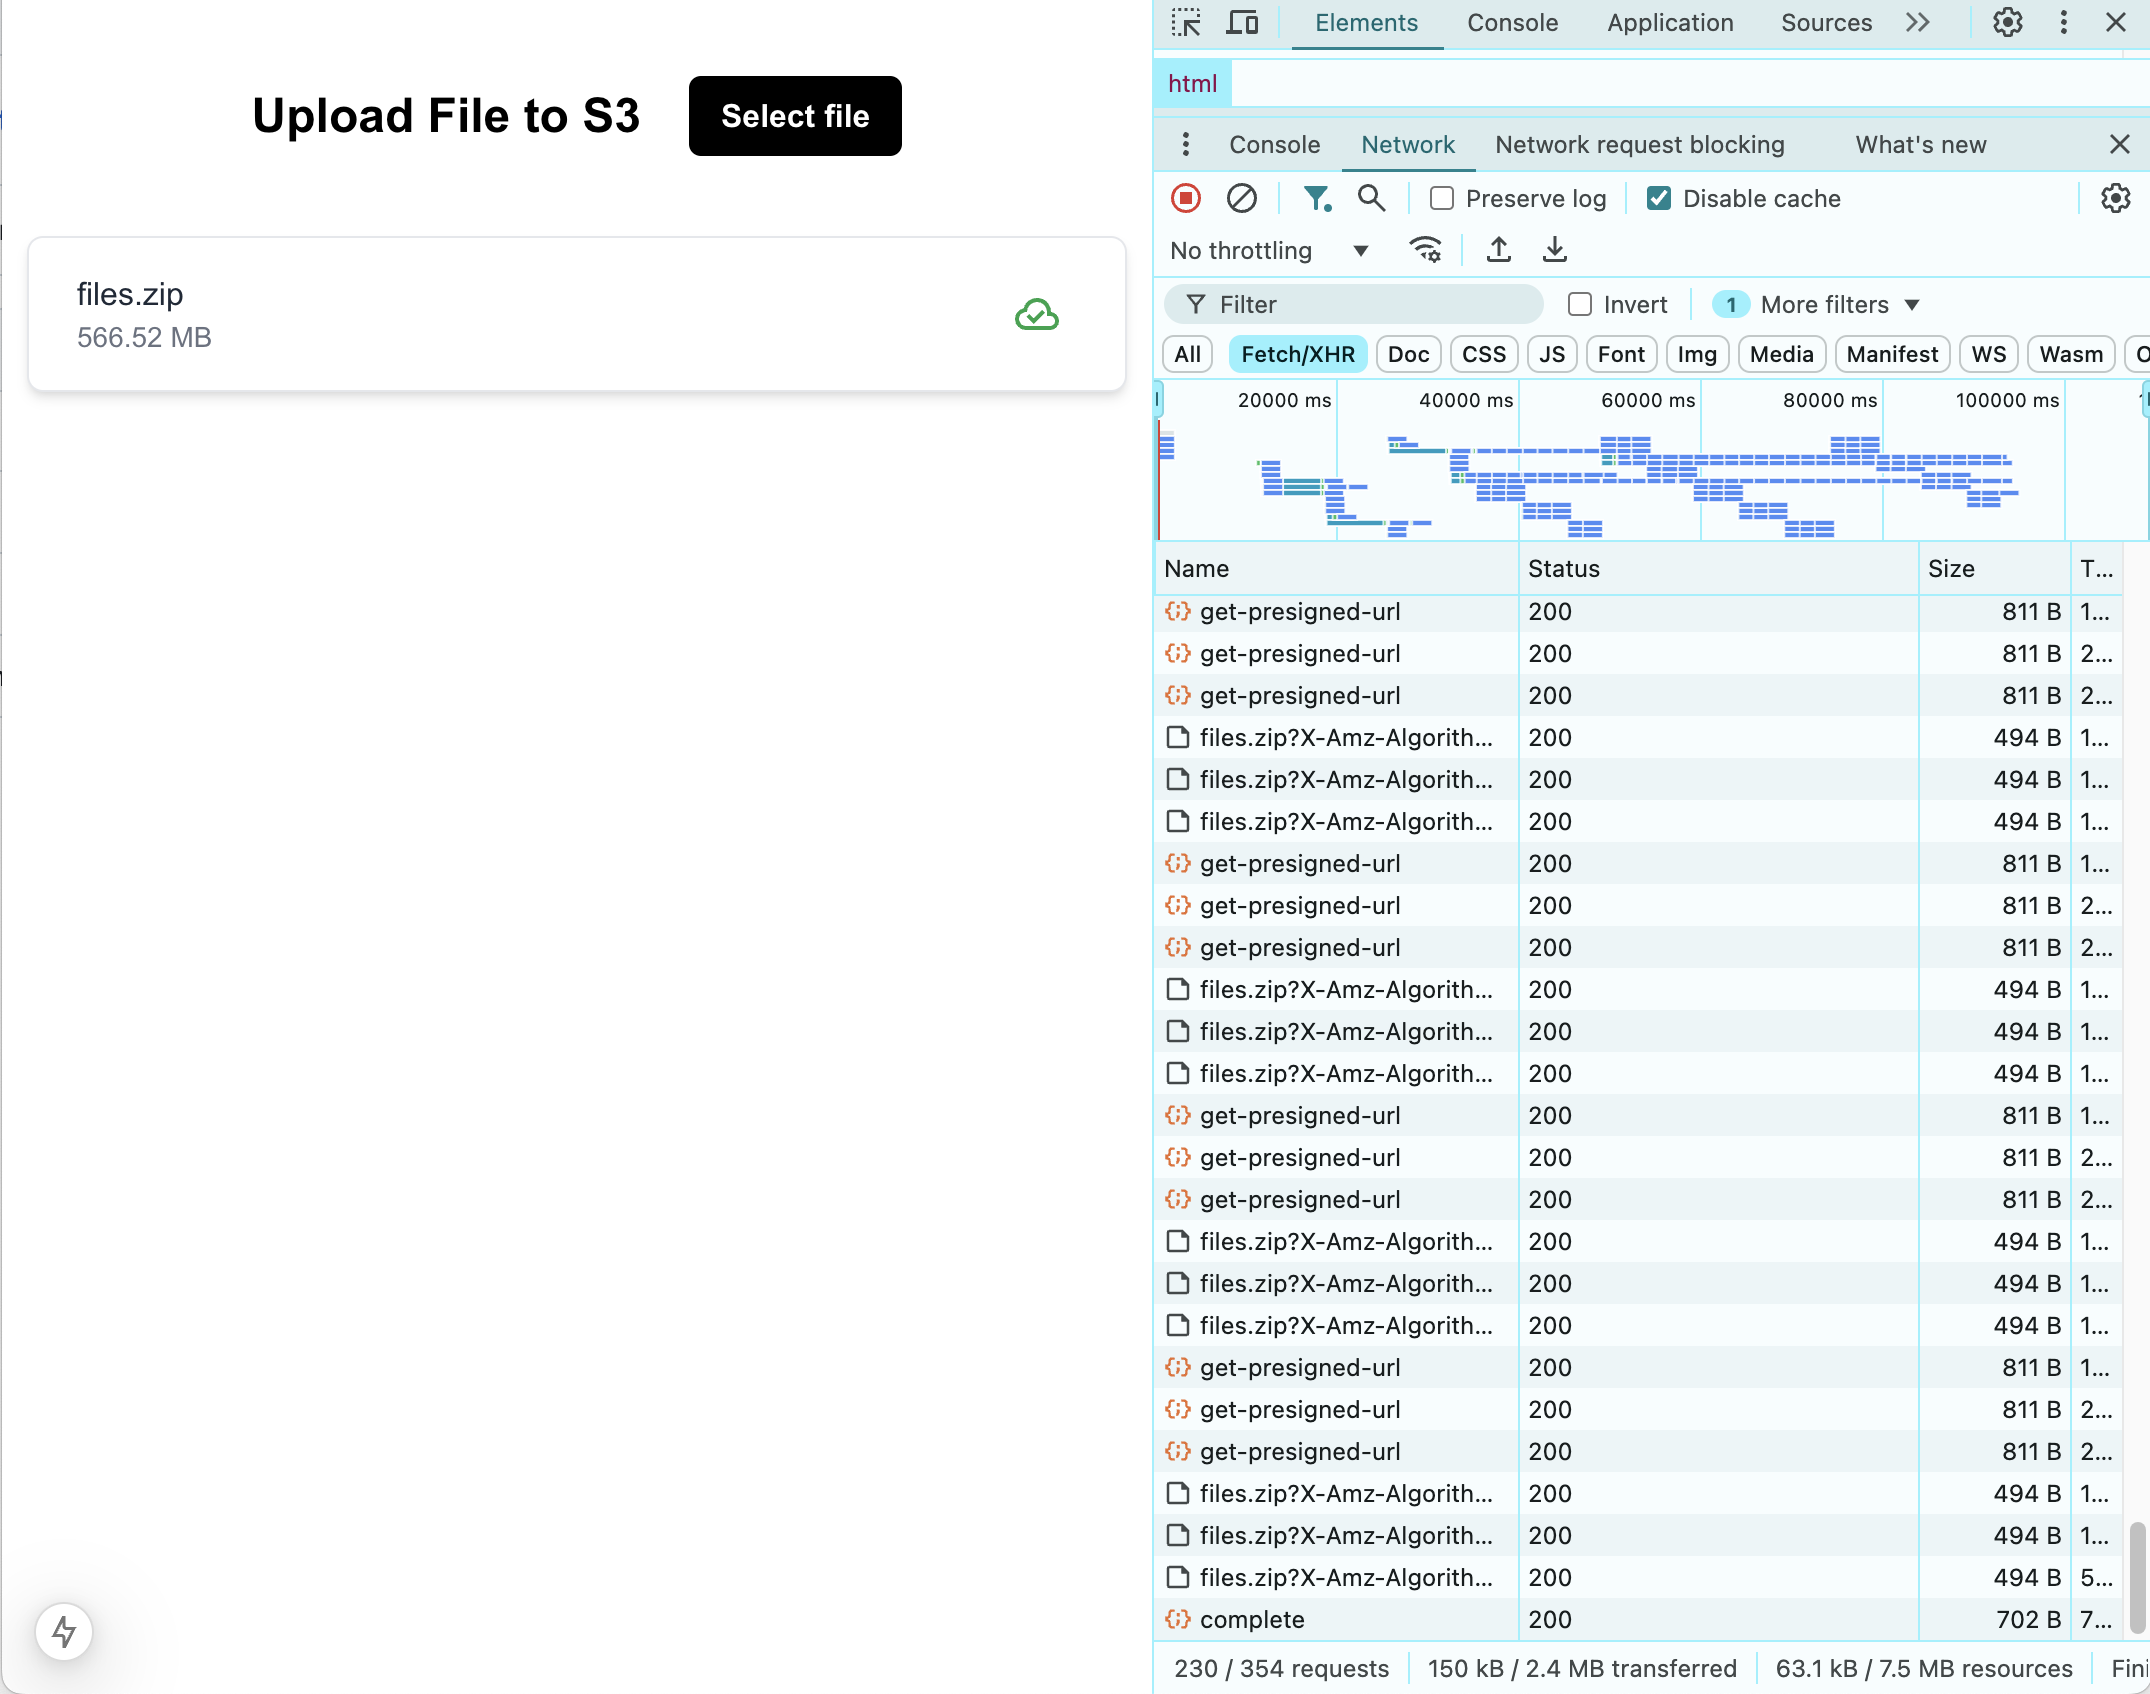
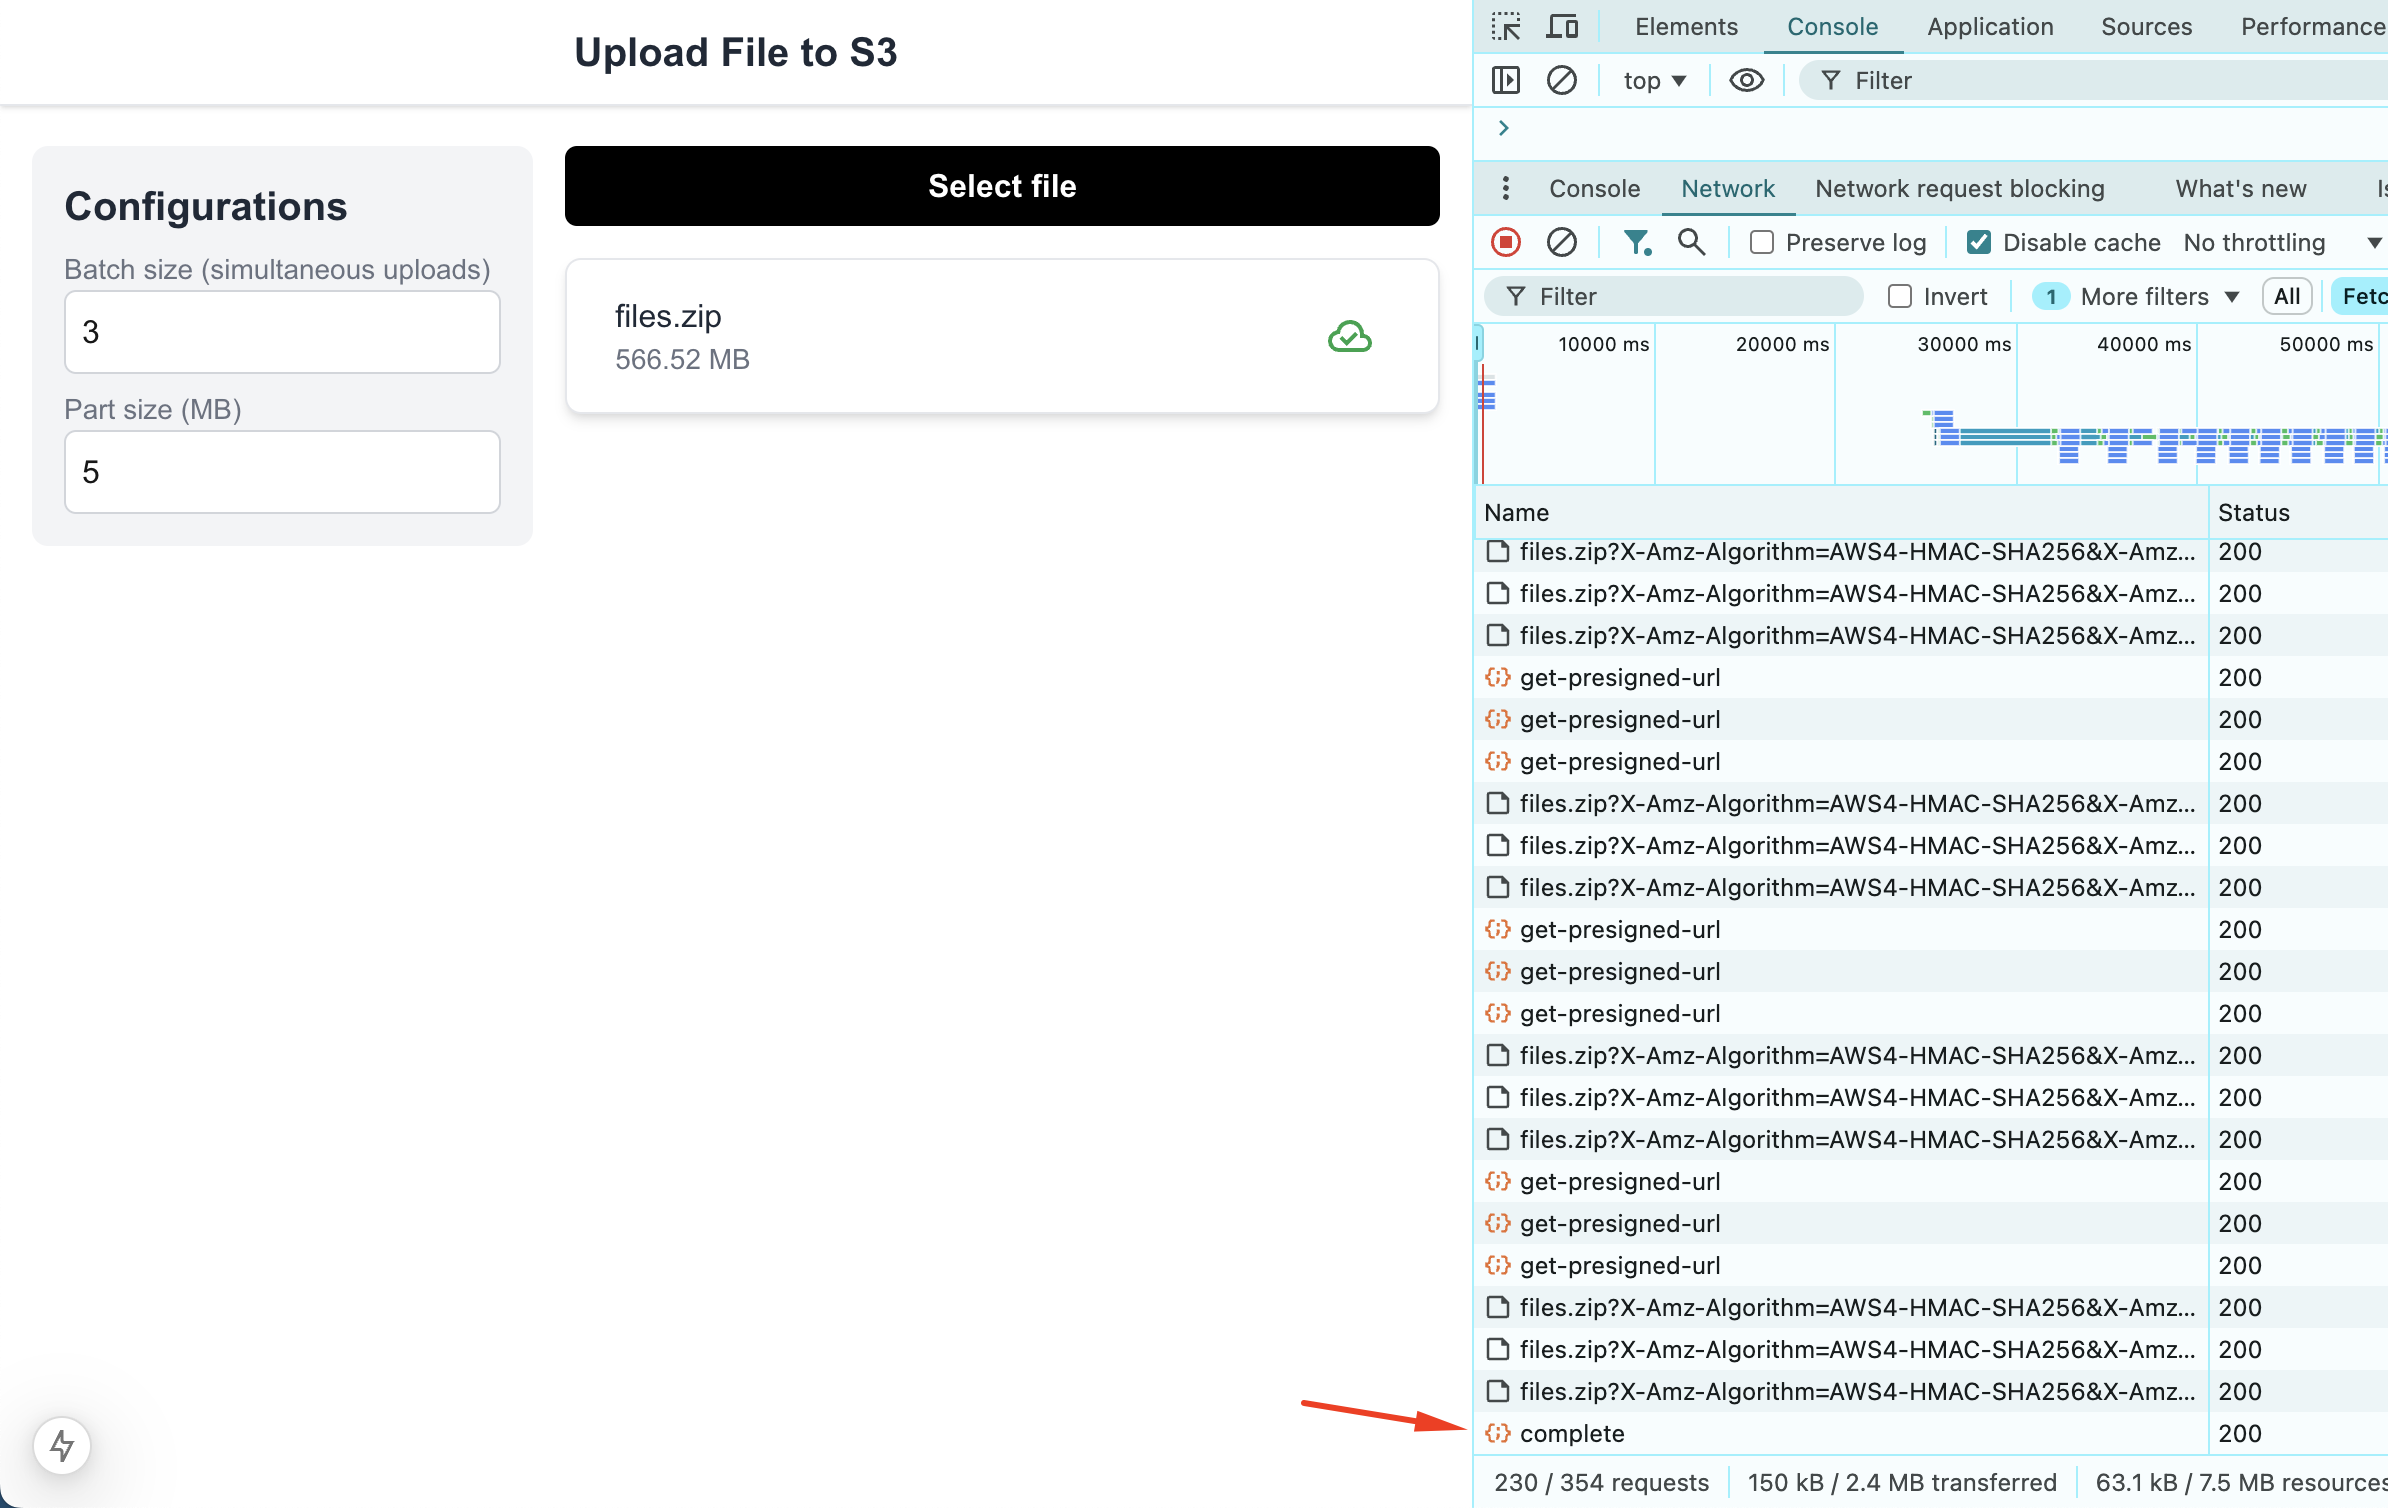
Add configuration form

diff --git a/app/page.tsx b/app/page.tsx
@@ -1,13 +1,16 @@
 "use client";
 
 import { useState, useRef } from "react";
-import { uploadFileByParts } from "../services/files";
+import { DEFAULT_PART_SIZE, uploadFileByParts } from "../services/files";
 import { BackspaceIcon, CloudDone, Spinner, UploadIcon } from "@/components/icons";
 import { formatFileSize } from "@/lib/files";
 import { FilePickerButton } from "@/components/file-picker-btn";
 
+
 export default function Home() {
   const [files, setFiles] = useState<UploadFile[]>([]);
+  const [uploadBatchSize, setUploadBatchSize] = useState<number>();
+  const [uploadPartSize, setUploadPartSize] = useState<number>(DEFAULT_PART_SIZE);
 
   const handleSelectFile = (file: File) => {
     setFiles([...files, { file }]);
@@ -26,31 +29,65 @@ export default function Home() {
   };
 
   return (
-    <div className="flex justify-center py-10">
+    <div>
+      <h1 className="text-xl text-center shadow text-gray-800 border-b p-3 font-bold">Upload File to S3</h1>
 
-      <div className="space-y-10">
+      <div className="flex justify-center px-4">
 
-        <div className="flex gap-6 min-w-[550px] items-center justify-center">
-          <h1 className="text-2xl font-bold text-black">Upload File to S3</h1>
-          <FilePickerButton
-            onSelectFile={handleSelectFile}
-          />
-        </div>
+        <div className="flex w-full items-start max-w-4xl py-5 gap-4">
 
-        <div className="flex flex-col gap-4">
-          {files.map((file) => (
-            <UploadFileItem
-              key={file.file.name}
-              file={file}
-              onRemove={() => handleRemoveFile(file)}
-              onUploadSuccess={() => handleUploadSuccess(file)}
-              onUploadError={(error) => handleUploadError(file, error)}
+          <div className="flex-1 bg-gray-100 rounded-lg p-4 space-y-2">
+            <h1 className="text-xl font-bold text-gray-800">Configurations</h1>
+            <div>
+              <p className="text-sm text-gray-500">Batch size (simultaneous uploads)</p>
+              <input
+                type="number"
+                value={uploadBatchSize?.toString() || ""}
+                placeholder="Empty for unlimited"
+                className="border border-gray-300 rounded-md p-2 w-full"
+                onChange={(e) => setUploadBatchSize(e.target.value ? parseInt(e.target.value) : undefined)}
+              />
+            </div>
+
+            <div>
+              <p className="text-sm text-gray-500">Part size (MB)</p>
+              <input
+                type="number"
+                value={uploadPartSize.toString()}
+                placeholder="Part size"
+                className="border border-gray-300 rounded-md p-2 w-full"
+                onChange={(e) => setUploadPartSize(e.target.value ? parseInt(e.target.value) : DEFAULT_PART_SIZE)}
+              />
+            </div>
+          </div>
+
+          <div className="flex-[2]">
+            <FilePickerButton
+              className="w-full"
+              onSelectFile={handleSelectFile}
             />
-          ))}
+
+            {files.length === 0 && (
+              <p className="text-gray-500 py-10 text-center">No files selected</p>
+            )}
+
+            <div className="flex flex-col gap-4 pt-4">
+              {files.map((file) => (
+                <UploadFileItem
+                  key={file.file.name}
+                  file={file}
+                  uploadConfig={{ batchSize: uploadBatchSize, partSize: uploadPartSize }}
+                  onRemove={() => handleRemoveFile(file)}
+                  onUploadSuccess={() => handleUploadSuccess(file)}
+                  onUploadError={(error) => handleUploadError(file, error)}
+                />
+              ))}
+            </div>
+
+          </div>
+
         </div>
-
       </div>
-
     </div>
   );
 }
@@ -63,19 +100,27 @@ type UploadFile = {
 
 type UploadFileItemProps = {
   file: UploadFile;
+  uploadConfig?: {
+    batchSize?: number;
+    partSize?: number;
+  };
   onRemove: () => void;
   onUploadSuccess: () => void;
   onUploadError: (error: Error) => void;
 }
 
-function UploadFileItem({ file, onRemove, onUploadSuccess, onUploadError }: UploadFileItemProps) {
+function UploadFileItem({ file, uploadConfig, onRemove, onUploadSuccess, onUploadError }: UploadFileItemProps) {
   const [isUploading, setIsUploading] = useState(false);
   const [uploadProgress, setUploadProgress] = useState(0);
 
   const handleUpload = async (file: UploadFile) => {
     setIsUploading(true);
 
-    uploadFileByParts(file.file, { batchSize: 3, onProgress: setUploadProgress })
+    uploadFileByParts(file.file, {
+      batchSize: uploadConfig?.batchSize,
+      partSize: uploadConfig?.partSize,
+      onProgress: setUploadProgress
+    })
       .then(() => {
         onUploadSuccess();
       })

diff --git a/services/files.ts b/services/files.ts
@@ -1,16 +1,20 @@
 type UploadFileByPartsOptions = {
   batchSize?: number;
+  partSize?: number;
   onProgress?: (progress: number) => void;
 };
+
+export const DEFAULT_PART_SIZE = 5;
 
 /**
  * Upload a file by parts to S3.
  * @param file - The file to upload.
  * @param options - The options for the upload.
  * @param options.batchSize - The batch size for the upload. Defaults to the number of parts.
+ * @param options.partSize - The size of each part to upload. Defaults to 5MB.
  * @param options.onProgress - A callback function that will be called with the progress of the upload.
  */
-export async function uploadFileByParts(file: File, { batchSize, onProgress }: UploadFileByPartsOptions = {}) {
+export async function uploadFileByParts(file: File, { batchSize, partSize = DEFAULT_PART_SIZE, onProgress }: UploadFileByPartsOptions = {}) {
   const initRes = await fetch("/api/upload/init", {
     method: "POST",
     body: JSON.stringify({
@@ -23,13 +27,13 @@ export async function uploadFileByParts(file: File, { batchSize, onProgress }: U
   const { uploadId } = await initRes.json();
 
   const uploadPartJobs: (() => Promise<void>)[] = [];
-  const partSize = 5 * 1024 * 1024; // 5MB
-  const totalParts = Math.ceil(file.size / partSize);
+  const partSizeInMB = partSize * 1024 * 1024; 
+  const totalParts = Math.ceil(file.size / partSizeInMB);
   const partResults: { PartNumber: number; ETag: string }[] = [];
 
   for (let partNumber = 1; partNumber <= totalParts; partNumber++) {
     uploadPartJobs.push(async () => {
-      const part = file.slice((partNumber - 1) * partSize, partNumber * partSize);
+      const part = file.slice((partNumber - 1) * partSizeInMB, partNumber * partSizeInMB);
 
       const presignedRes = await fetch("/api/upload/get-presigned-url", {
         method: "POST",

diff --git a/components/file-picker-btn.tsx b/components/file-picker-btn.tsx
@@ -2,8 +2,10 @@ import { useState } from "react";
 import { useRef } from "react";
 
 export function FilePickerButton({
+  className,
   onSelectFile,
 }: {
+  className?: string;
   onSelectFile: (file: File) => void;
 }) {
   const fileInputRef = useRef<HTMLInputElement>(null);
@@ -36,7 +38,7 @@ export function FilePickerButton({
 
       <button
         onClick={handleUpload}
-        className="font-semibold bg-black text-white px-4 py-2 rounded-md"
+        className={"block font-semibold bg-black text-white px-4 py-2 rounded-md " + className}
       >
         Select file
       </button>
